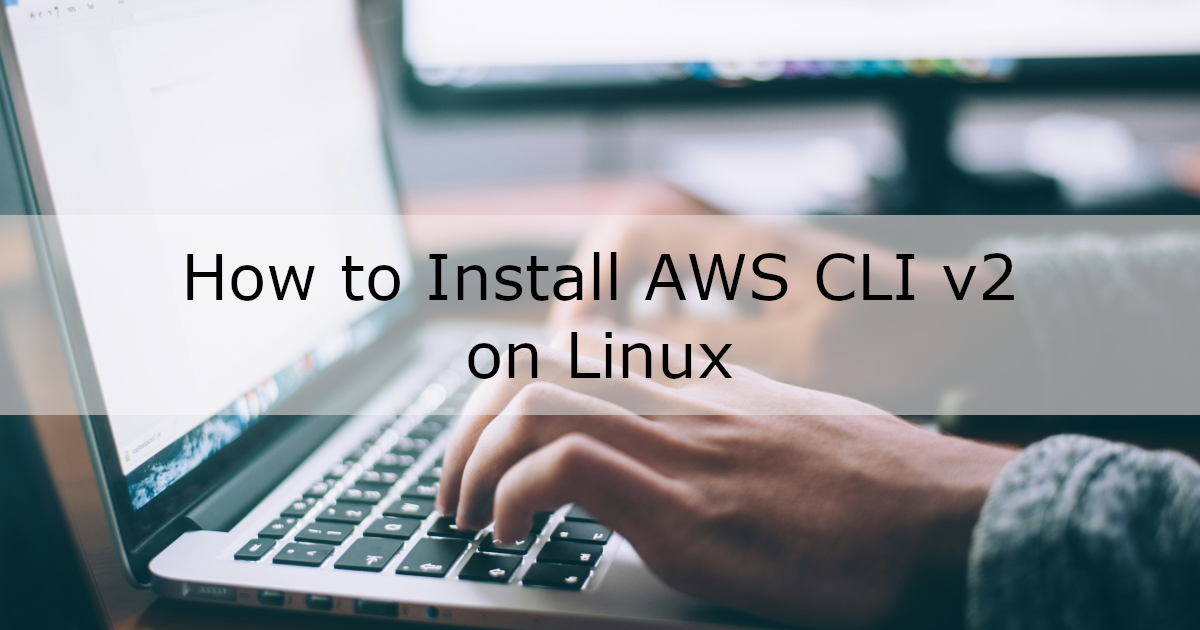
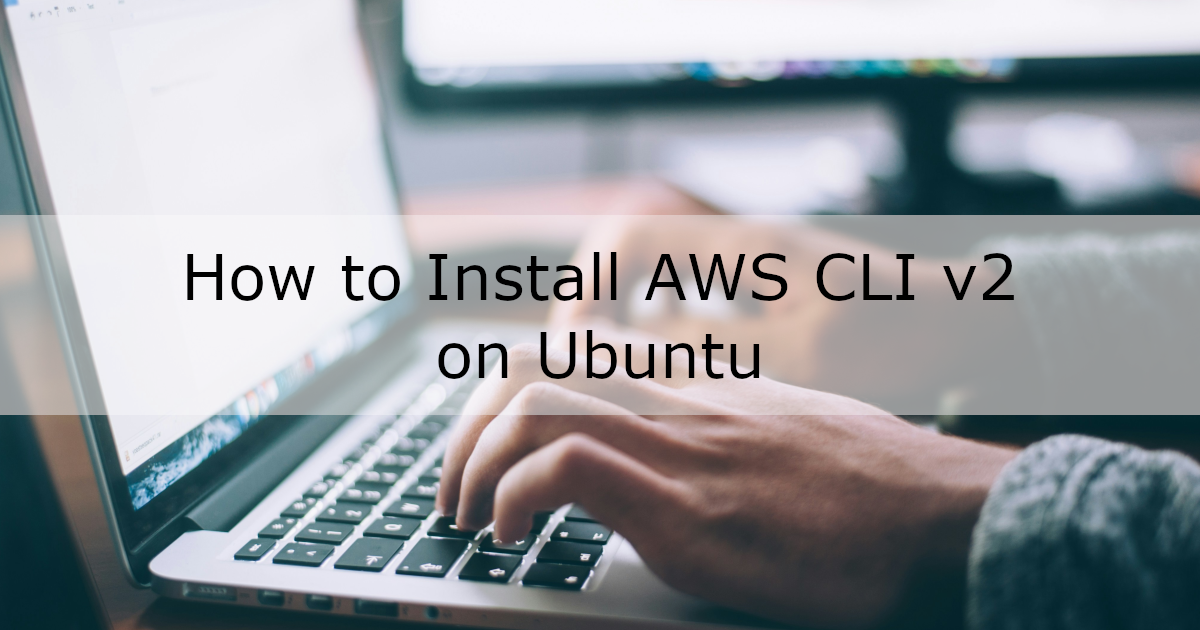
Linux -> Ubuntu

Changed region(s): [[0.37, 0.5127, 0.6475, 0.6032]]

diff --git a/docs/_posts/aws/cli/install-aws-cli-on-linux/ja/2025-07-19-install-aws-cli-on-linux.md b/docs/_posts/aws/cli/install-aws-cli-on-linux/ja/2025-07-19-install-aws-cli-on-linux.md
@@ -1,6 +1,6 @@
 ---
 layout: my-post
-title: "LinuxにAWS CLI v2をインストールする方法"
+title: "UbuntuにAWS CLI v2をインストールする方法"
 date: 2025-07-19 00:00:00 +0000
 categories: aws cli
 page_name: install-aws-cli-on-linux

diff --git a/docs/_posts/aws/cli/install-aws-cli-on-linux/en/2025-07-19-install-aws-cli-on-linux-en.md b/docs/_posts/aws/cli/install-aws-cli-on-linux/en/2025-07-19-install-aws-cli-on-linux-en.md
@@ -1,6 +1,6 @@
 ---
 layout: my-post
-title: "How to Install AWS CLI v2 on Linux"
+title: "How to Install AWS CLI v2 on Ubuntu"
 date: 2025-07-19 00:00:00 +0000
 categories: aws cli
 page_name: install-aws-cli-on-linux-en
